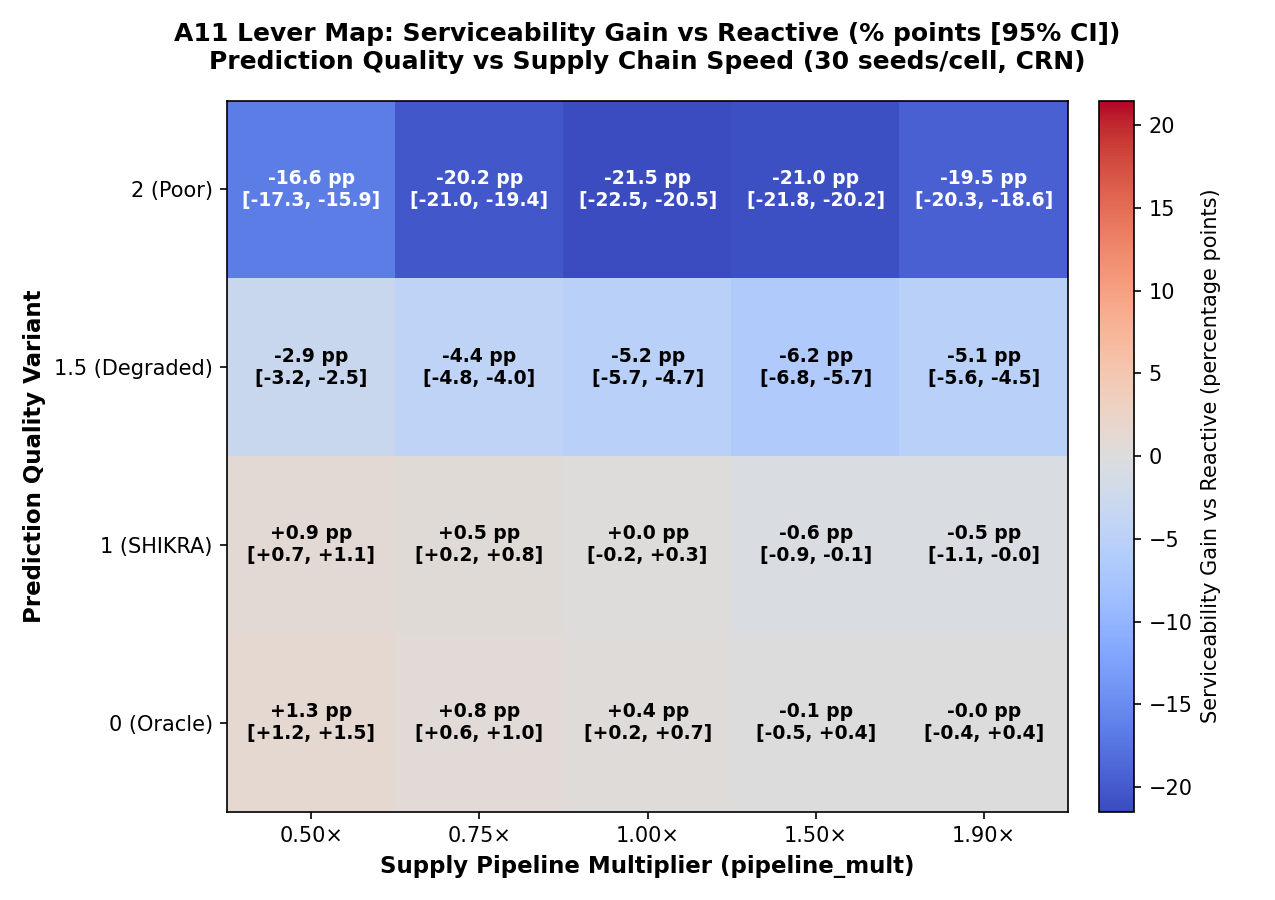
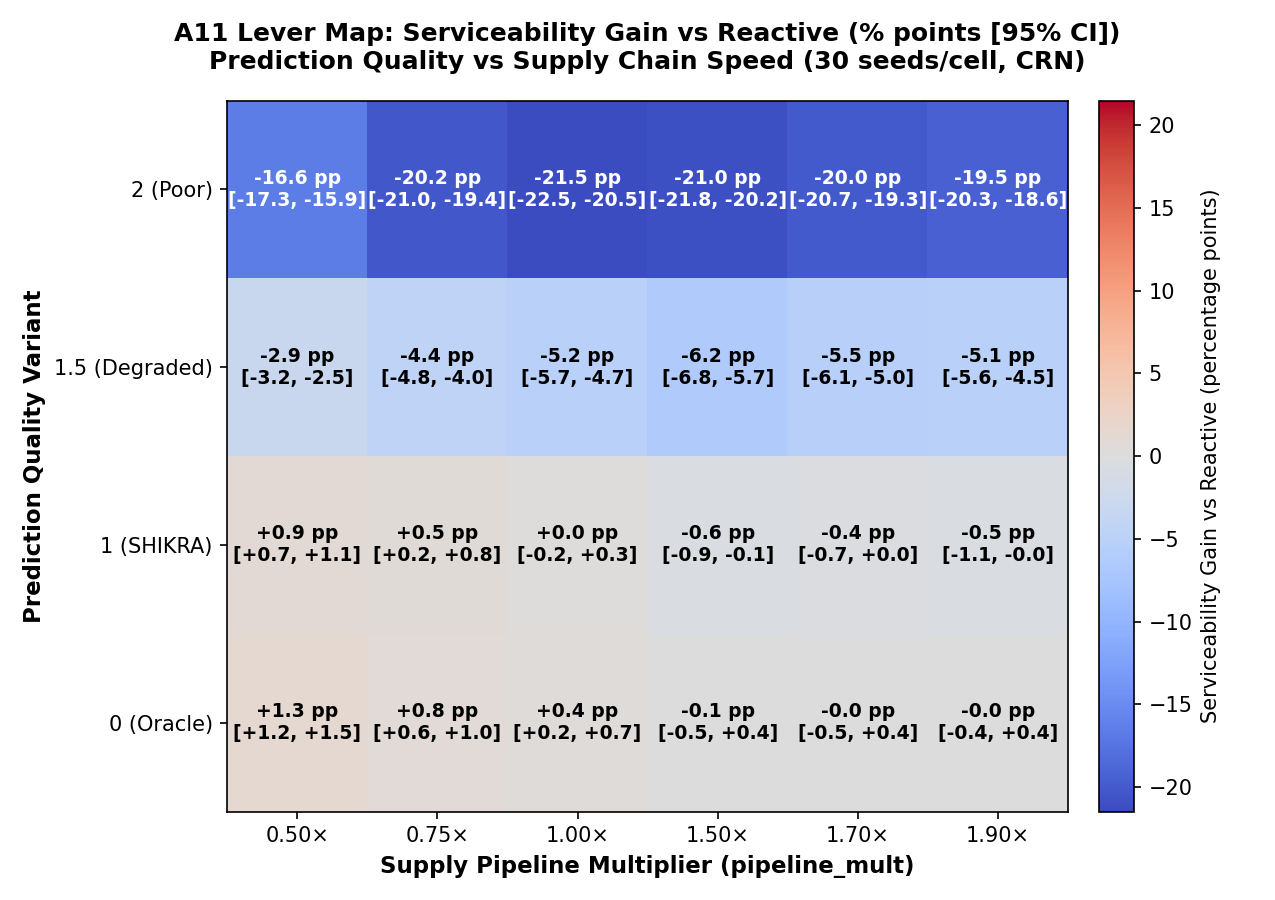
feat(heatmap): add 1.7 to PIPELINE_MULTS and regenerate

diff --git a/scripts/heatmap.py b/scripts/heatmap.py
@@ -33,7 +33,7 @@ PARAMS_PATH = ROOT / "artifacts" / "policy_params.json"
 REPLAY_PATH = ROOT / "artifacts" / "replay_rul.parquet"
 RESULTS_DIR = ROOT / "results"
 
-PIPELINE_MULTS = [0.5, 0.75, 1.0, 1.5, 1.9]
+PIPELINE_MULTS = [0.5, 0.75, 1.0, 1.5, 1.7, 1.9]
 QUALITIES = [0.0, 1.0, 1.5, 2.0]
 QUALITY_LABELS = {
     0.0: "0 (Oracle)",
